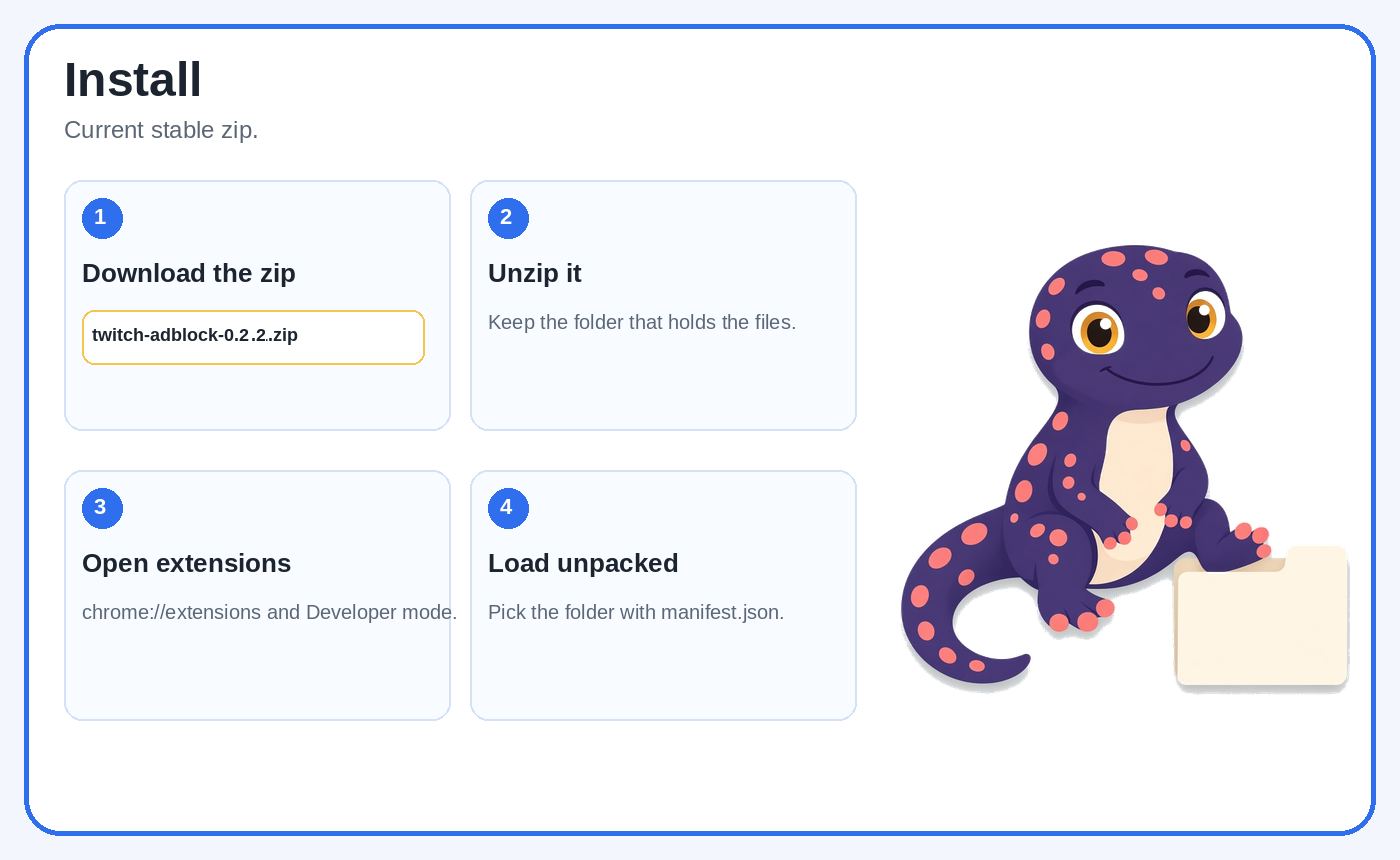
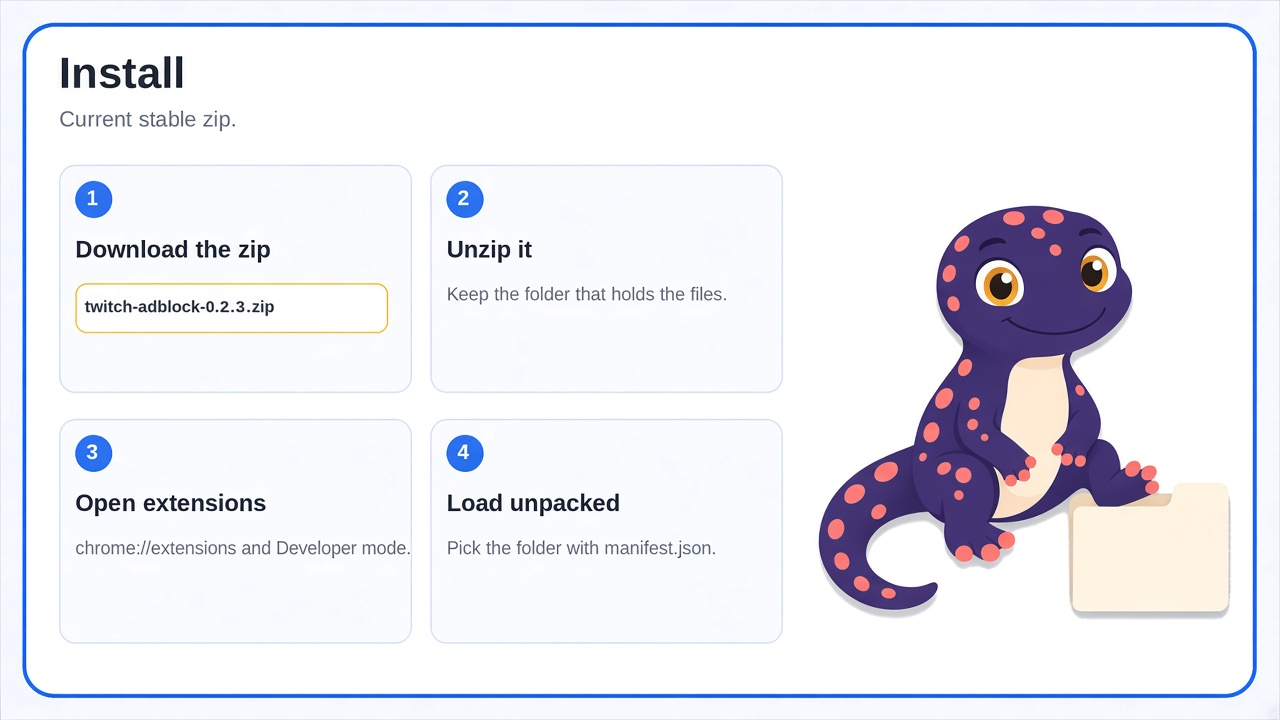
Mark v0.2.3 as the current stable build.
Point the download at this build. Debug stays off until the popup
switch is used, and a Twitch tab now answers ON and Copy debug.

diff --git a/test/youtube.test.js b/test/youtube.test.js
@@ -205,7 +205,7 @@ Deno.test("the youtube script does not swap media or phone home", () => {
   assert(source.includes("isInlinePlaybackNoAd"), "player requests opt out of scheduled ads");
   assert(source.includes('notice.textContent = "Blocking ads"'), "the player label says ads are being blocked");
   assertEquals(manifest.name, "twitch-adblock");
-  assertEquals(manifest.version, "0.2.2");
+  assertEquals(manifest.version, "0.2.3");
   assertEquals(manifest.action.default_popup, "src/popup.html");
   assertEquals(manifest.permissions, undefined);
   assertEquals(manifest.host_permissions, undefined);

diff --git a/src/debug.js b/src/debug.js
@@ -5,7 +5,7 @@ function installTwitchAdblockDebug(target, worker, storage) {
   const ring = [];
   const isWorker = worker === true;
   target.on = false;
-  target.version = "0.2.2";
+  target.version = "0.2.3";
 
   function slot() {
     if (isWorker) return null;

diff --git a/README.md b/README.md
@@ -16,21 +16,21 @@ A Chrome extension that blocks ads on Twitch live streams and YouTube. It is fre
 - **YouTube:** removes player ads and the Sponsored cards on the home page.
 - VODs and clips pass through untouched.
 
-## Current stable build: v0.2.2
+## Current stable build: v0.2.3
 
-<img src="docs/whats-new.png" width="800" alt="Current stable build v0.2.2. The toolbar icon is a gecko head. Twitch live uses video-swap-new. YouTube player ads and home Sponsored cards stay. Debug stays off until you turn it on.">
+<img src="docs/whats-new.png" width="800" alt="Current stable build v0.2.3. The toolbar icon is a gecko head. Twitch live uses video-swap-new. YouTube player ads and home Sponsored cards stay. Debug stays off until you turn it on. On a Twitch tab, ON answers and Copy debug includes the log.">
 
 The toolbar icon is a gecko head. Twitch live still uses video-swap-new. YouTube blocking is unchanged.
 
-Debug stays **off** until you turn it on. Copy debug is in the popup if you need a log. The log stays on your device, hides login tokens, and sends nothing out.
+Debug stays **off** until you turn it on. On a Twitch tab, ON answers the popup and Copy debug includes the log from that tab. The log stays on your device, hides login tokens, and sends nothing out.
 
-Details are in the [v0.2.2 release notes](https://github.com/gecko-of-shadow/twitch-adblock/releases/tag/v0.2.2).
+Details are in the [v0.2.3 release notes](https://github.com/gecko-of-shadow/twitch-adblock/releases/tag/v0.2.3).
 
 ## Install
 
-<img src="docs/install-steps.png" width="800" alt="Install the current stable zip: download twitch-adblock-0.2.2.zip, unzip it, open chrome://extensions, turn on Developer mode, and Load unpacked the folder with manifest.json.">
+<img src="docs/install-steps.png" width="800" alt="Install the current stable zip: download twitch-adblock-0.2.3.zip, unzip it, open chrome://extensions, turn on Developer mode, and Load unpacked the folder with manifest.json.">
 
-**[Download twitch-adblock-0.2.2.zip](https://github.com/gecko-of-shadow/twitch-adblock/releases/download/v0.2.2/twitch-adblock-0.2.2.zip)**
+**[Download twitch-adblock-0.2.3.zip](https://github.com/gecko-of-shadow/twitch-adblock/releases/download/v0.2.3/twitch-adblock-0.2.3.zip)**
 
 1. Download the zip above and unzip it.
 2. Open `chrome://extensions` and turn on **Developer mode**.

diff --git a/CHANGELOG.md b/CHANGELOG.md
@@ -1,5 +1,11 @@
 # Changelog
 
+## 0.2.3
+
+- On a Twitch tab, ON answers the popup. Copy debug includes the log from that tab, including the on-screen blocking label when it is showing.
+- Debug stays off until you turn it on. Opening the popup does not turn it on.
+- Twitch live still uses upstream video-swap-new. YouTube ad stripping stays.
+
 ## 0.2.2
 
 - Debug stays off until you turn it on in the popup. Copy debug is still there.
